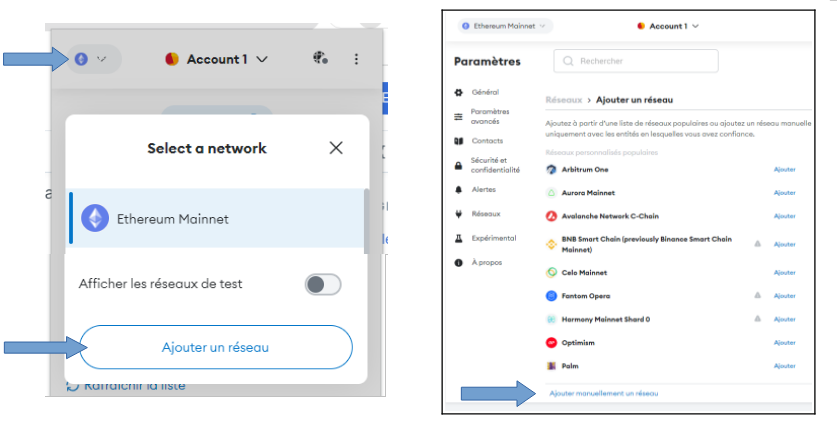
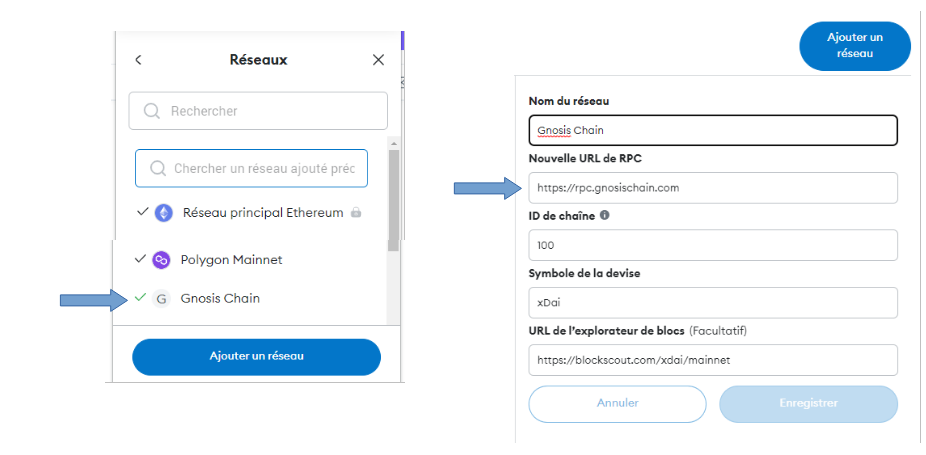
GITBOOK-130: change request with no subject merged in GitBook

diff --git a/portefeuille/metamask/modification-du-rpc.md b/portefeuille/metamask/modification-du-rpc.md
@@ -11,12 +11,9 @@ Lorsqu'il y a congestion sur cette passerelle, il peut être nécessaire de modi
 Pour ce faire :&#x20;
 
 * Il faut sélectionner le réseau (ici Gnosis), aller dans paramètres,
+*   Sélectionner la partie réseaux, puis Gnosis et modifier l'URL du RPC
 
-<figure><img src="../../.gitbook/assets/image (124).png" alt=""><figcaption></figcaption></figure>
-
-* Slectionner la partie réseau, et modifier l'URL du RPC
-*
-* &#x20;
+    <figure><img src="../../.gitbook/assets/image.png" alt=""><figcaption></figcaption></figure>
 * Pour trouver des URL de RPC pour Gnosis : [https://chainlist.org/chain/100](https://chainlist.org/chain/100)
 
 <figure><img src="../../.gitbook/assets/image (80).png" alt=""><figcaption></figcaption></figure>

diff --git a/site-realt/reevaluation.md b/site-realt/reevaluation.md
@@ -19,7 +19,7 @@ Dans l'exemple ci-dessus, la propriété achetée à l'origine à 70,5 k$ vaut e
 
 Concernant le montant de l'investissement, qui détermine le prix du token, il évolue comme suit dans l'exemple ci-dessus :
 
-<figure><img src="../.gitbook/assets/image (1) (1) (2).png" alt=""><figcaption></figcaption></figure>
+<figure><img src="../.gitbook/assets/image (1) (1) (2) (1).png" alt=""><figcaption></figcaption></figure>
 
 {% hint style="info" %}
 Après réévaluation, les montants des provisions à l'origine n'apparaissent plus dans l'onglet "Financials" de la propriété mais vous pouvez les retrouver sur un [outil communautaire](../la-communaute-realt/analyse-des-proprietes.md).

diff --git a/portefeuille/metamask/ajout-dun-reseau.md b/portefeuille/metamask/ajout-dun-reseau.md
@@ -15,7 +15,7 @@ RealT supporte ce réseau, mais recommande l'usage de Gnosis (pour limiter les f
 
 Avec le site web ci-dessus, la méthode est très simple et automatique. Vous pouvez aussi faire cet ajout plus "manuellement" dans MetaMask :  avec la fonction ajout de réseau de MetaMask, puis compléter des infos demandées avec celles figurant dans l'image ci-dessus.
 
-<figure><img src="../../.gitbook/assets/image.png" alt=""><figcaption></figcaption></figure>
+<figure><img src="../../.gitbook/assets/image (1).png" alt=""><figcaption></figcaption></figure>
 
 ## Pour ajouter le réseau Polygon
 

diff --git a/site-realt/impots.md b/site-realt/impots.md
@@ -17,4 +17,4 @@ Ce ne sont pas des groupes RealT officiels, et le sérieux et la véracité des 
 
 Un état récapitulatif est disponible dans la partie document du site RealT.
 
-<figure><img src="../../.gitbook/assets/image (1) (1).png" alt=""><figcaption></figcaption></figure>
+<figure><img src="../.gitbook/assets/image (1) (1) (2).png" alt=""><figcaption></figcaption></figure>
